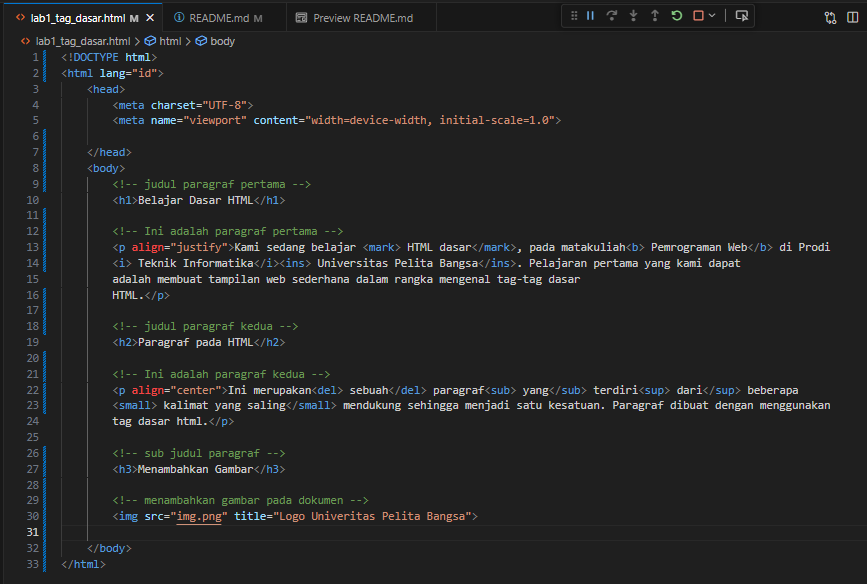
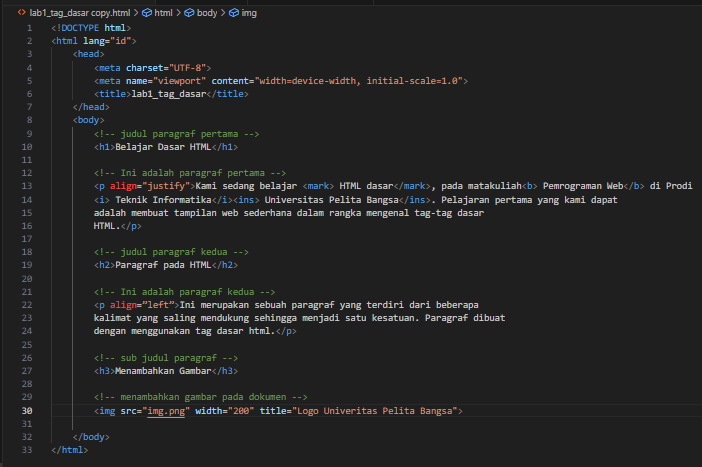
image-1.png

diff --git a/lab1_tag_dasar copy.html b/lab1_tag_dasar copy.html
@@ -1,0 +1,41 @@
+<!DOCTYPE html> 
+<html lang="id"> 
+    <head>
+        <meta charset="UTF-8">
+        <meta name="viewport" content="width=device-width, initial-scale=1.0">
+        <title>lab1_tag_dasar</title>
+    </head> 
+    <body> 
+        <!-- menambahkan link navigasi --> 
+        <nav> 
+            <a href="lab1_tag_dasar.html" target="_blank">Dasar HTML</a> 
+            <a href="lab1_halaman2.html" >Halaman 2</a>
+            <a href="http://www.google.com">Halaman Web Eksternal Google</a> 
+        </nav> 
+        <hr> 
+        
+        <!-- judul paragraf pertama --> 
+        <h1>Belajar Dasar HTML</h1>
+
+        <!-- Ini adalah paragraf pertama --> 
+        <p align="justify">Kami sedang belajar <mark> HTML dasar</mark>, pada matakuliah<b> Pemrograman Web</b> di Prodi 
+        <i> Teknik Informatika</i><ins> Universitas Pelita Bangsa</ins>. Pelajaran pertama yang kami dapat 
+        adalah membuat tampilan web sederhana dalam rangka mengenal tag-tag dasar 
+        HTML.</p>
+
+        <!-- judul paragraf kedua --> 
+        <h2>Paragraf pada HTML</h2> 
+
+        <!-- Ini adalah paragraf kedua --> 
+        <p align=”left”>Ini merupakan sebuah paragraf yang terdiri dari beberapa 
+        kalimat yang saling mendukung sehingga menjadi satu kesatuan. Paragraf dibuat 
+        dengan menggunakan tag dasar html.</p>
+
+        <!-- sub judul paragraf --> 
+        <h3>Menambahkan Gambar</h3> 
+
+        <!-- menambahkan gambar pada dokumen --> 
+        <img src="img.png" width="200" title="Logo Univeritas Pelita Bangsa">
+        
+    </body> 
+</html> 
